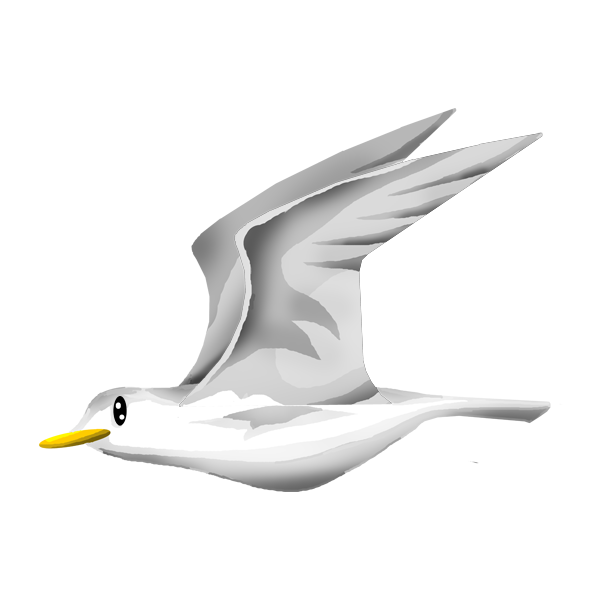
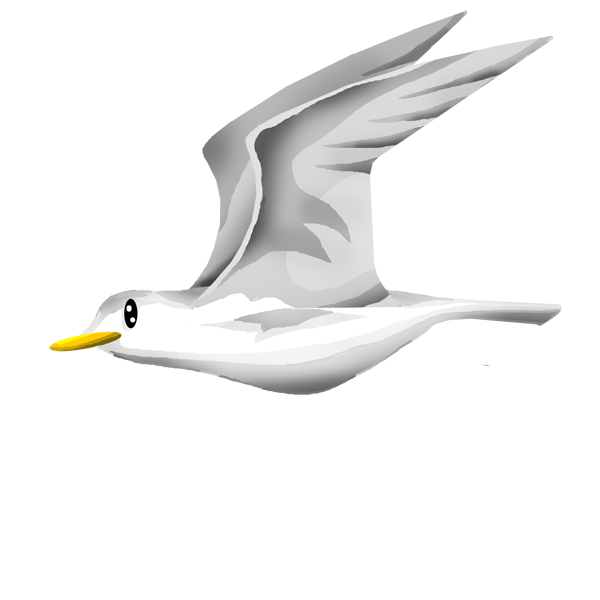
Added bird animation, fixed animation system. - Camera now starts

Changed region(s): [[0.06, 0.0, 0.93, 0.84]]

diff --git a/Code/Engine/Animation.cs b/Code/Engine/Animation.cs
@@ -4,65 +4,47 @@ using System.Linq;
 using System.Text;
 using Microsoft.Xna.Framework.Graphics;
 
-namespace Sputnik.Engine
+namespace Sputnik
 {
-    class Animation
-    {
-        Sequence m_currentSequence;
-		bool isdone=false;
-        int currentframe; 
-        float frametime; 
-         // Change to a new sequence.
-         void PlaySequence(Sequence sequence)
-         {
-			 isdone=false;
-         m_currentSequence=sequence;
-             currentframe=0;
-             frametime=0;
+	class Animation
+	{
+		private Sequence m_currentSequence;
+		private int currentframe;
+		private float frametime;
 
-             
-         }
+		public bool Done { get; private set; }
 
-           // Get current texture.
-           Texture2D CurrentFrame()
-            {      
-            
-			return  m_currentSequence.getFrames().ElementAt(currentframe);
-            }
+		// Change to a new sequence.
+		public void PlaySequence(Sequence sequence)
+		{
+			Done = false;
+			m_currentSequence = sequence;
+			currentframe = 0;
+			frametime = 0.0f;
+		}
 
-         // Update currently displayed frame.
-         void Update(float elapsedTime)
-         {
-             frametime+=elapsedTime;
+		// Get current texture.
+		public Texture2D CurrentFrame { get { return m_currentSequence.FrameAt(currentframe).Texture; } }
 
-			 if (frametime > m_currentSequence.getTime().ElementAt(currentframe))
-			 {
-				 currentframe++;
-				 frametime=0;
-			 }
+		// Update currently displayed frame.
+		public void Update(float elapsedTime)
+		{
+			frametime += elapsedTime;
 
+			while (currentframe < m_currentSequence.Count && frametime > m_currentSequence.FrameAt(currentframe).Time) {
+				frametime -= m_currentSequence.FrameAt(currentframe).Time;
+				currentframe++;
 
-
-
-			 if (currentframe == m_currentSequence.getFrames().Count)
-			 {
-
-				 if (m_currentSequence.Loop)
-				 {   // go back to first frame 
-					 currentframe = 0;
-				 }
-				 else
-				 {
-					 currentframe = currentframe - 1;
-					 isdone = true;
-				 }
-			 }
-
-
-		
-			 
-			
-			 
-         }
-    }
+				if (currentframe == m_currentSequence.Count) {
+					if (m_currentSequence.Loop) {
+						// go back to first frame 
+						currentframe = 0;
+					} else {
+						currentframe--;
+						Done = true;
+					}
+				}
+			}
+		}
+	}
 }

diff --git a/Code/Engine/Sequence.cs b/Code/Engine/Sequence.cs
@@ -5,32 +5,42 @@ using System.Text;
 using Microsoft.Xna.Framework;
 using Microsoft.Xna.Framework.Graphics;
 using Microsoft.Xna.Framework.Content;
-namespace Sputnik.Engine
+namespace Sputnik
 {
-    class Sequence
-    {
-        private List<Texture2D> frames = new List<Texture2D>();
-        private List<float> timeframes = new List<float>();
-		public bool Loop; 
+	class Sequence
+	{
+		private ContentManager m_contentManager;
 
-        void AddFrame(ContentManager contentManager, string filename, float duration)
-        {
-            frames.Add( contentManager.Load<Texture2D>(filename));
+		public struct Frame {
+			public Texture2D Texture;
+			public float Time;
+		}
 
-            timeframes.Add(duration);
-        }
+		private List<Frame> m_frames = new List<Frame>();
 
-        public List<Texture2D> getFrames()
-        {
-    
-         return frames;
-         }
+		public bool Loop { get; set; }
 
-        public List<float> getTime()
-        {
-            return timeframes;
-        }
+		public List<Frame> Frames { get { return m_frames; } }
+		public int Count { get { return m_frames.Count; } }
 
+		/***************************************************************************/
 
-    }
+		public Sequence(ContentManager manager) {
+			m_contentManager = manager;
+		}
+
+		public void AddFrame(string filename, float duration)
+		{
+			Frame f;
+			f.Texture = m_contentManager.Load<Texture2D>(filename);
+			f.Time = duration;
+
+			m_frames.Add(f);
+		}
+
+		public Frame FrameAt(int index)
+		{
+			return m_frames[index];
+		}
+	}
 }

diff --git a/Code/Game/Bird.cs b/Code/Game/Bird.cs
@@ -14,13 +14,14 @@ namespace Sputnik.Game {
 		
 		private int m_speedLevel = 1;
 
+		private Animation m_anim = new Animation();
+
 		/***************************************************************************/
 
 		// Debug constructor.
 		public Bird(GameEnvironment env)
 				: base(env) {
 			Initialize();
-			Position = Vector2.Zero;
 		}
 
 		// Regular constructor.
@@ -31,7 +32,15 @@ namespace Sputnik.Game {
 		}
 
 		private void Initialize() {
-			LoadTexture(Environment.contentManager, "bird\\Bird1", 0.20f);
+			Sequence seq = new Sequence(Environment.contentManager);
+			seq.AddFrame("bird\\Bird1", 0.33f);
+			seq.AddFrame("bird\\Bird2", 0.33f);
+			seq.Loop = true;
+			m_anim.PlaySequence(seq);
+
+			Texture = m_anim.CurrentFrame;
+			Scale = 0.20f;
+
 			Registration = new Vector2(Texture.Width, Texture.Height) / 2; // temp.
 
 			CreateCollisionBody(Environment.CollisionWorld, BodyType.Kinematic, CollisionFlags.FixedRotation);
@@ -44,6 +53,8 @@ namespace Sputnik.Game {
 
 		public override void Update(float elapsedTime) {
 			// TODO: Update animation.
+			m_anim.Update(elapsedTime);
+			Texture = m_anim.CurrentFrame;
 			base.Update(elapsedTime);
 		}
 

diff --git a/Code/Engine/Controller.cs b/Code/Engine/Controller.cs
@@ -21,7 +21,7 @@ namespace Sputnik {
 		private Environment m_nextEnv;
 
 		// Windowed/fullscreen.
-		private Vector2 m_windowedSize = new Vector2(1280, 800);
+		private Vector2 m_windowedSize = new Vector2(960, 640);
 		private bool m_fullscreen = false;
 
 		// FPS Counters.
@@ -48,8 +48,8 @@ namespace Sputnik {
 				Graphics.PreferredBackBufferHeight = GraphicsAdapter.DefaultAdapter.CurrentDisplayMode.Height;
 			} else {
 				// Set default window size.
-				Graphics.PreferredBackBufferWidth = 960;
-				Graphics.PreferredBackBufferHeight = 640;
+				Graphics.PreferredBackBufferWidth = (int) m_windowedSize.X;
+				Graphics.PreferredBackBufferHeight = (int) m_windowedSize.Y;
 			}
 
 			IsFixedTimeStep = true;

diff --git a/Code/Game/GameEnvironment.cs b/Code/Game/GameEnvironment.cs
@@ -56,7 +56,7 @@ namespace Sputnik {
 
 			// Camera.
 			Camera = new Camera2D(this);
-			Camera.Position = new Vector2(0.0f, k_idealScreenSize.Y * 0.5f);
+			Camera.Position = new Vector2(1280.0f, k_idealScreenSize.Y * 0.5f);
 			Camera.MoveSpeed = new Vector2(100.0f, 0.0f);
 			Camera.ResetEffectScale(1.1f); // Set at slightly higher than 1.0 so we can do a zoom out pressure effect.
 
